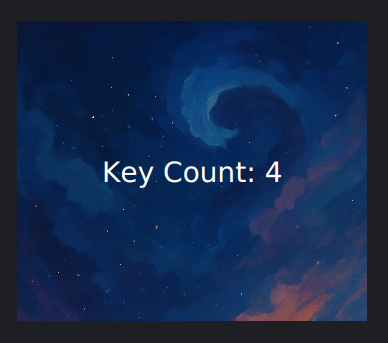
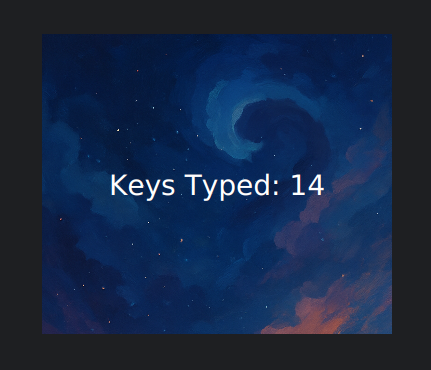
Update UI

diff --git a/src/main/java/org/example/MyApplication.java b/src/main/java/org/example/MyApplication.java
@@ -83,6 +83,6 @@ public class MyApplication extends Application {
 
     private void onClickAction() {
         keyCount++;
-        Platform.runLater(() -> keyCountLabel.setText("Key Count: " + keyCount));
+        Platform.runLater(() -> keyCountLabel.setText("Keys Typed: " + keyCount));
     }
 }
